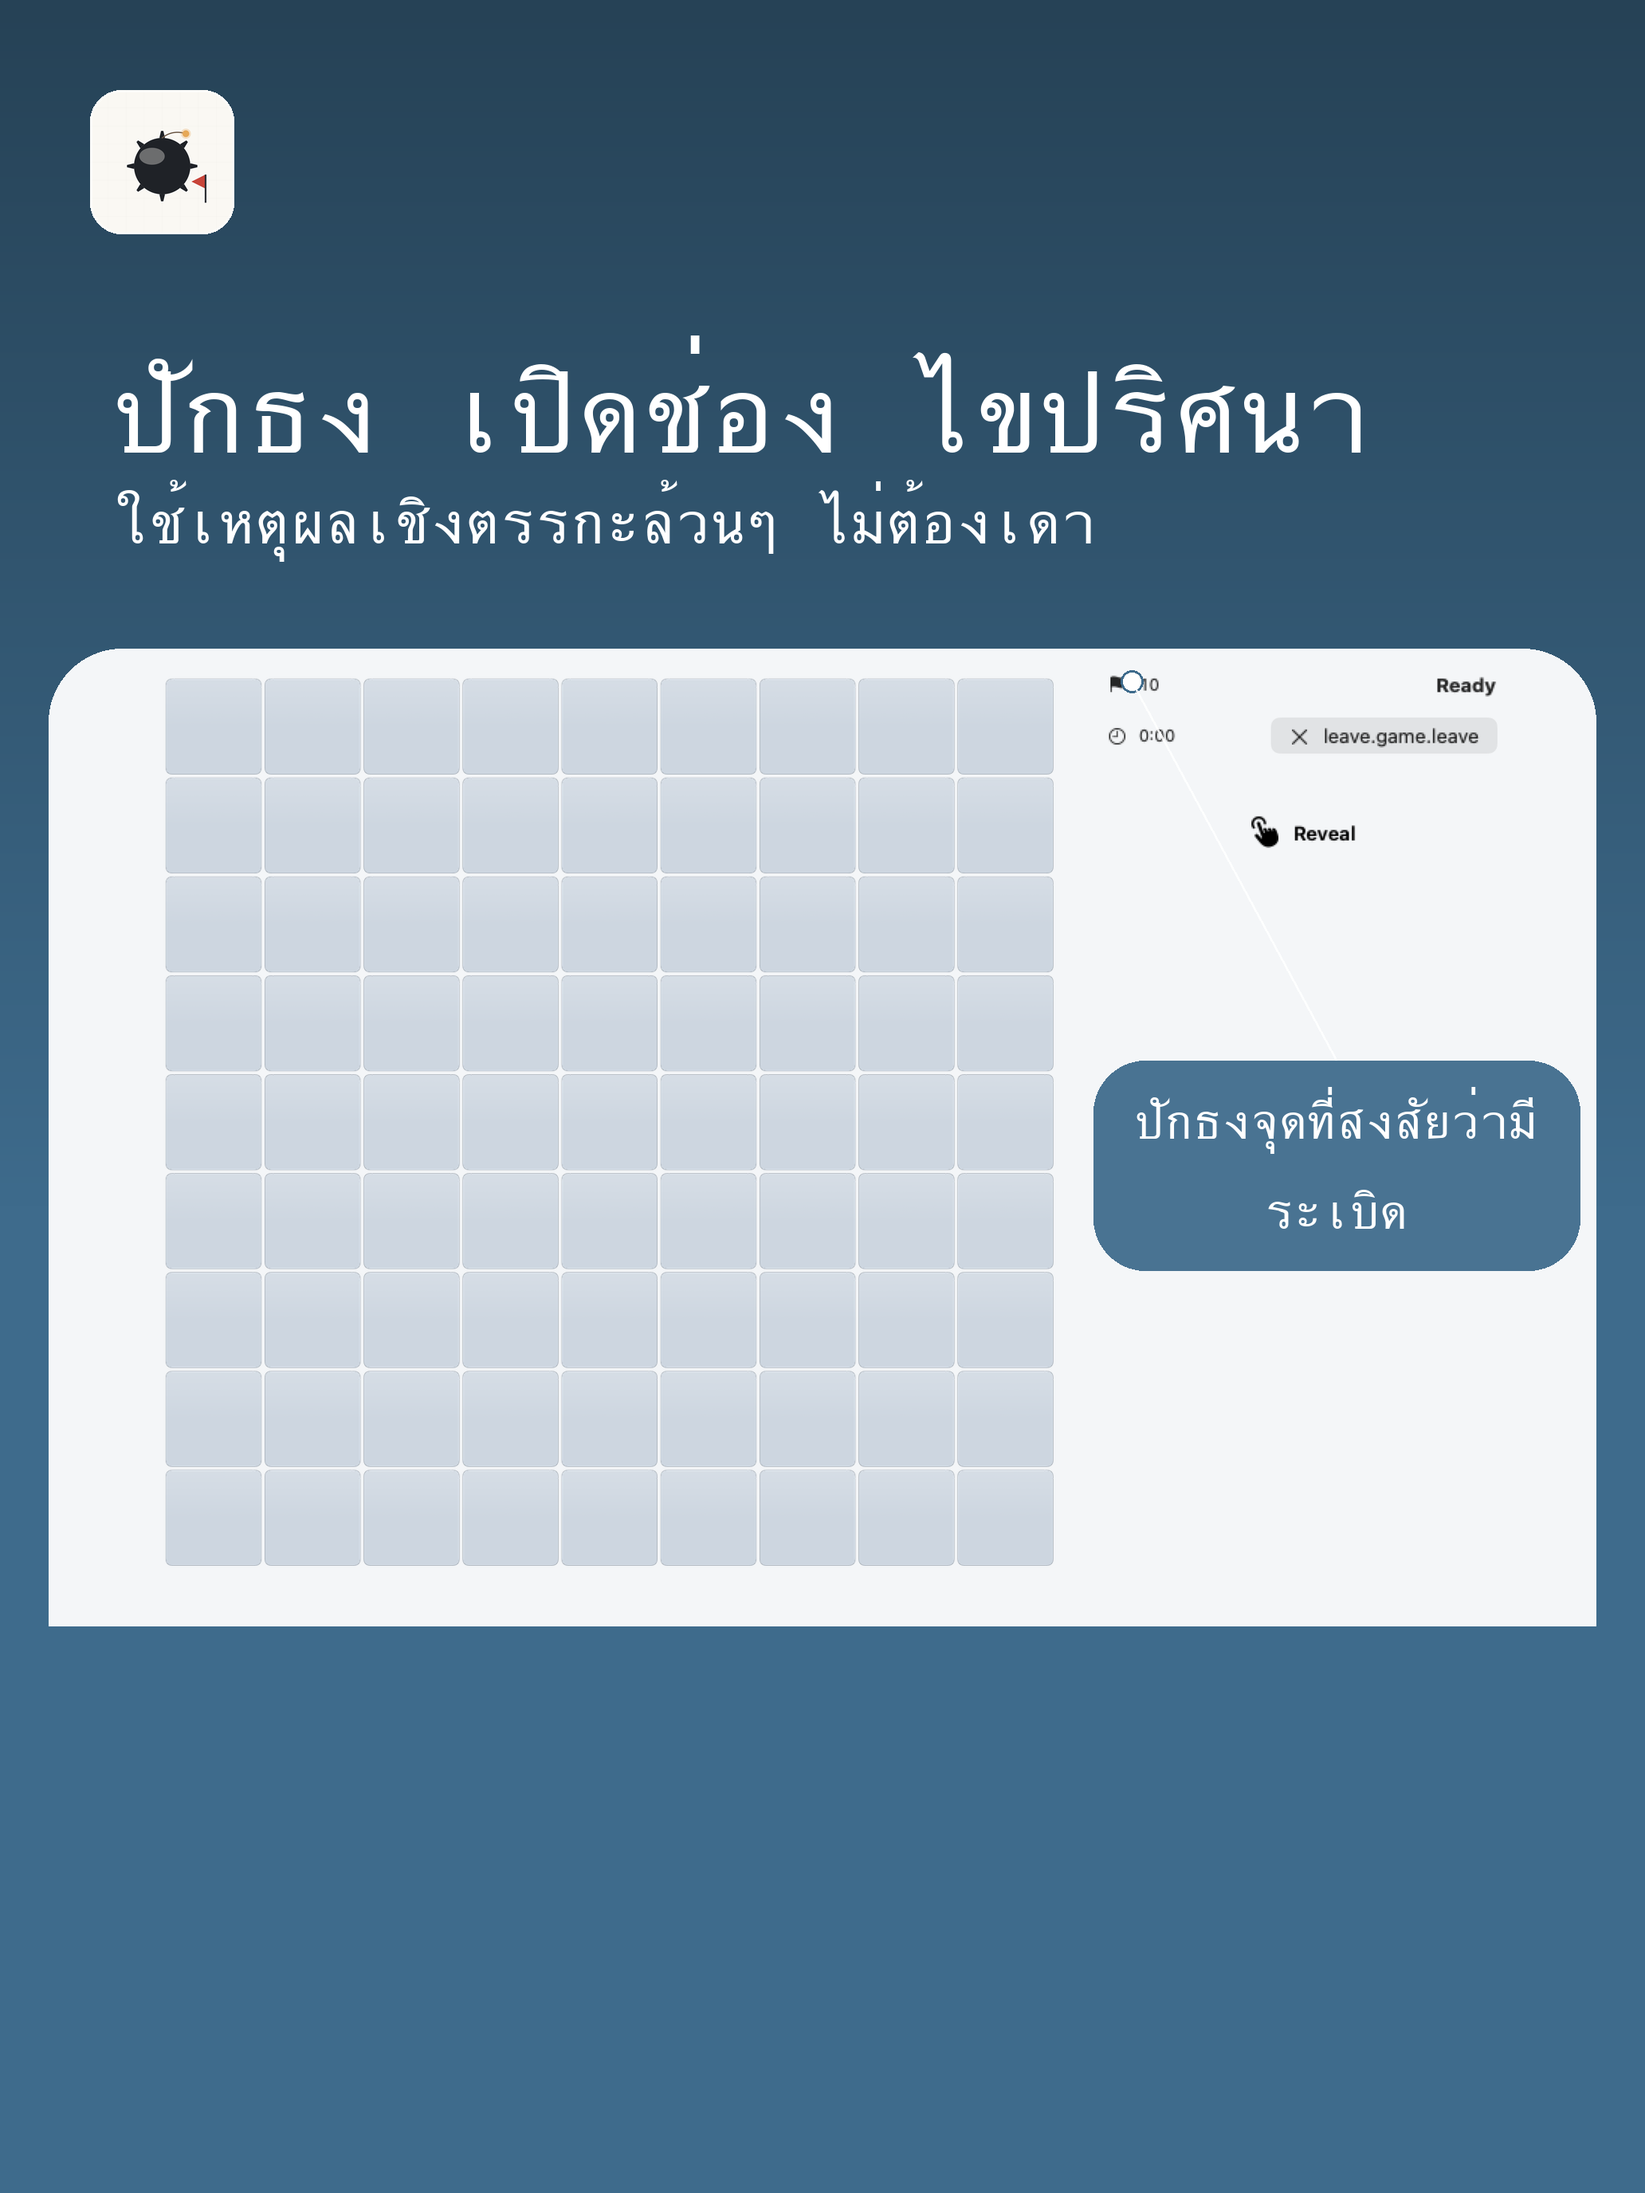
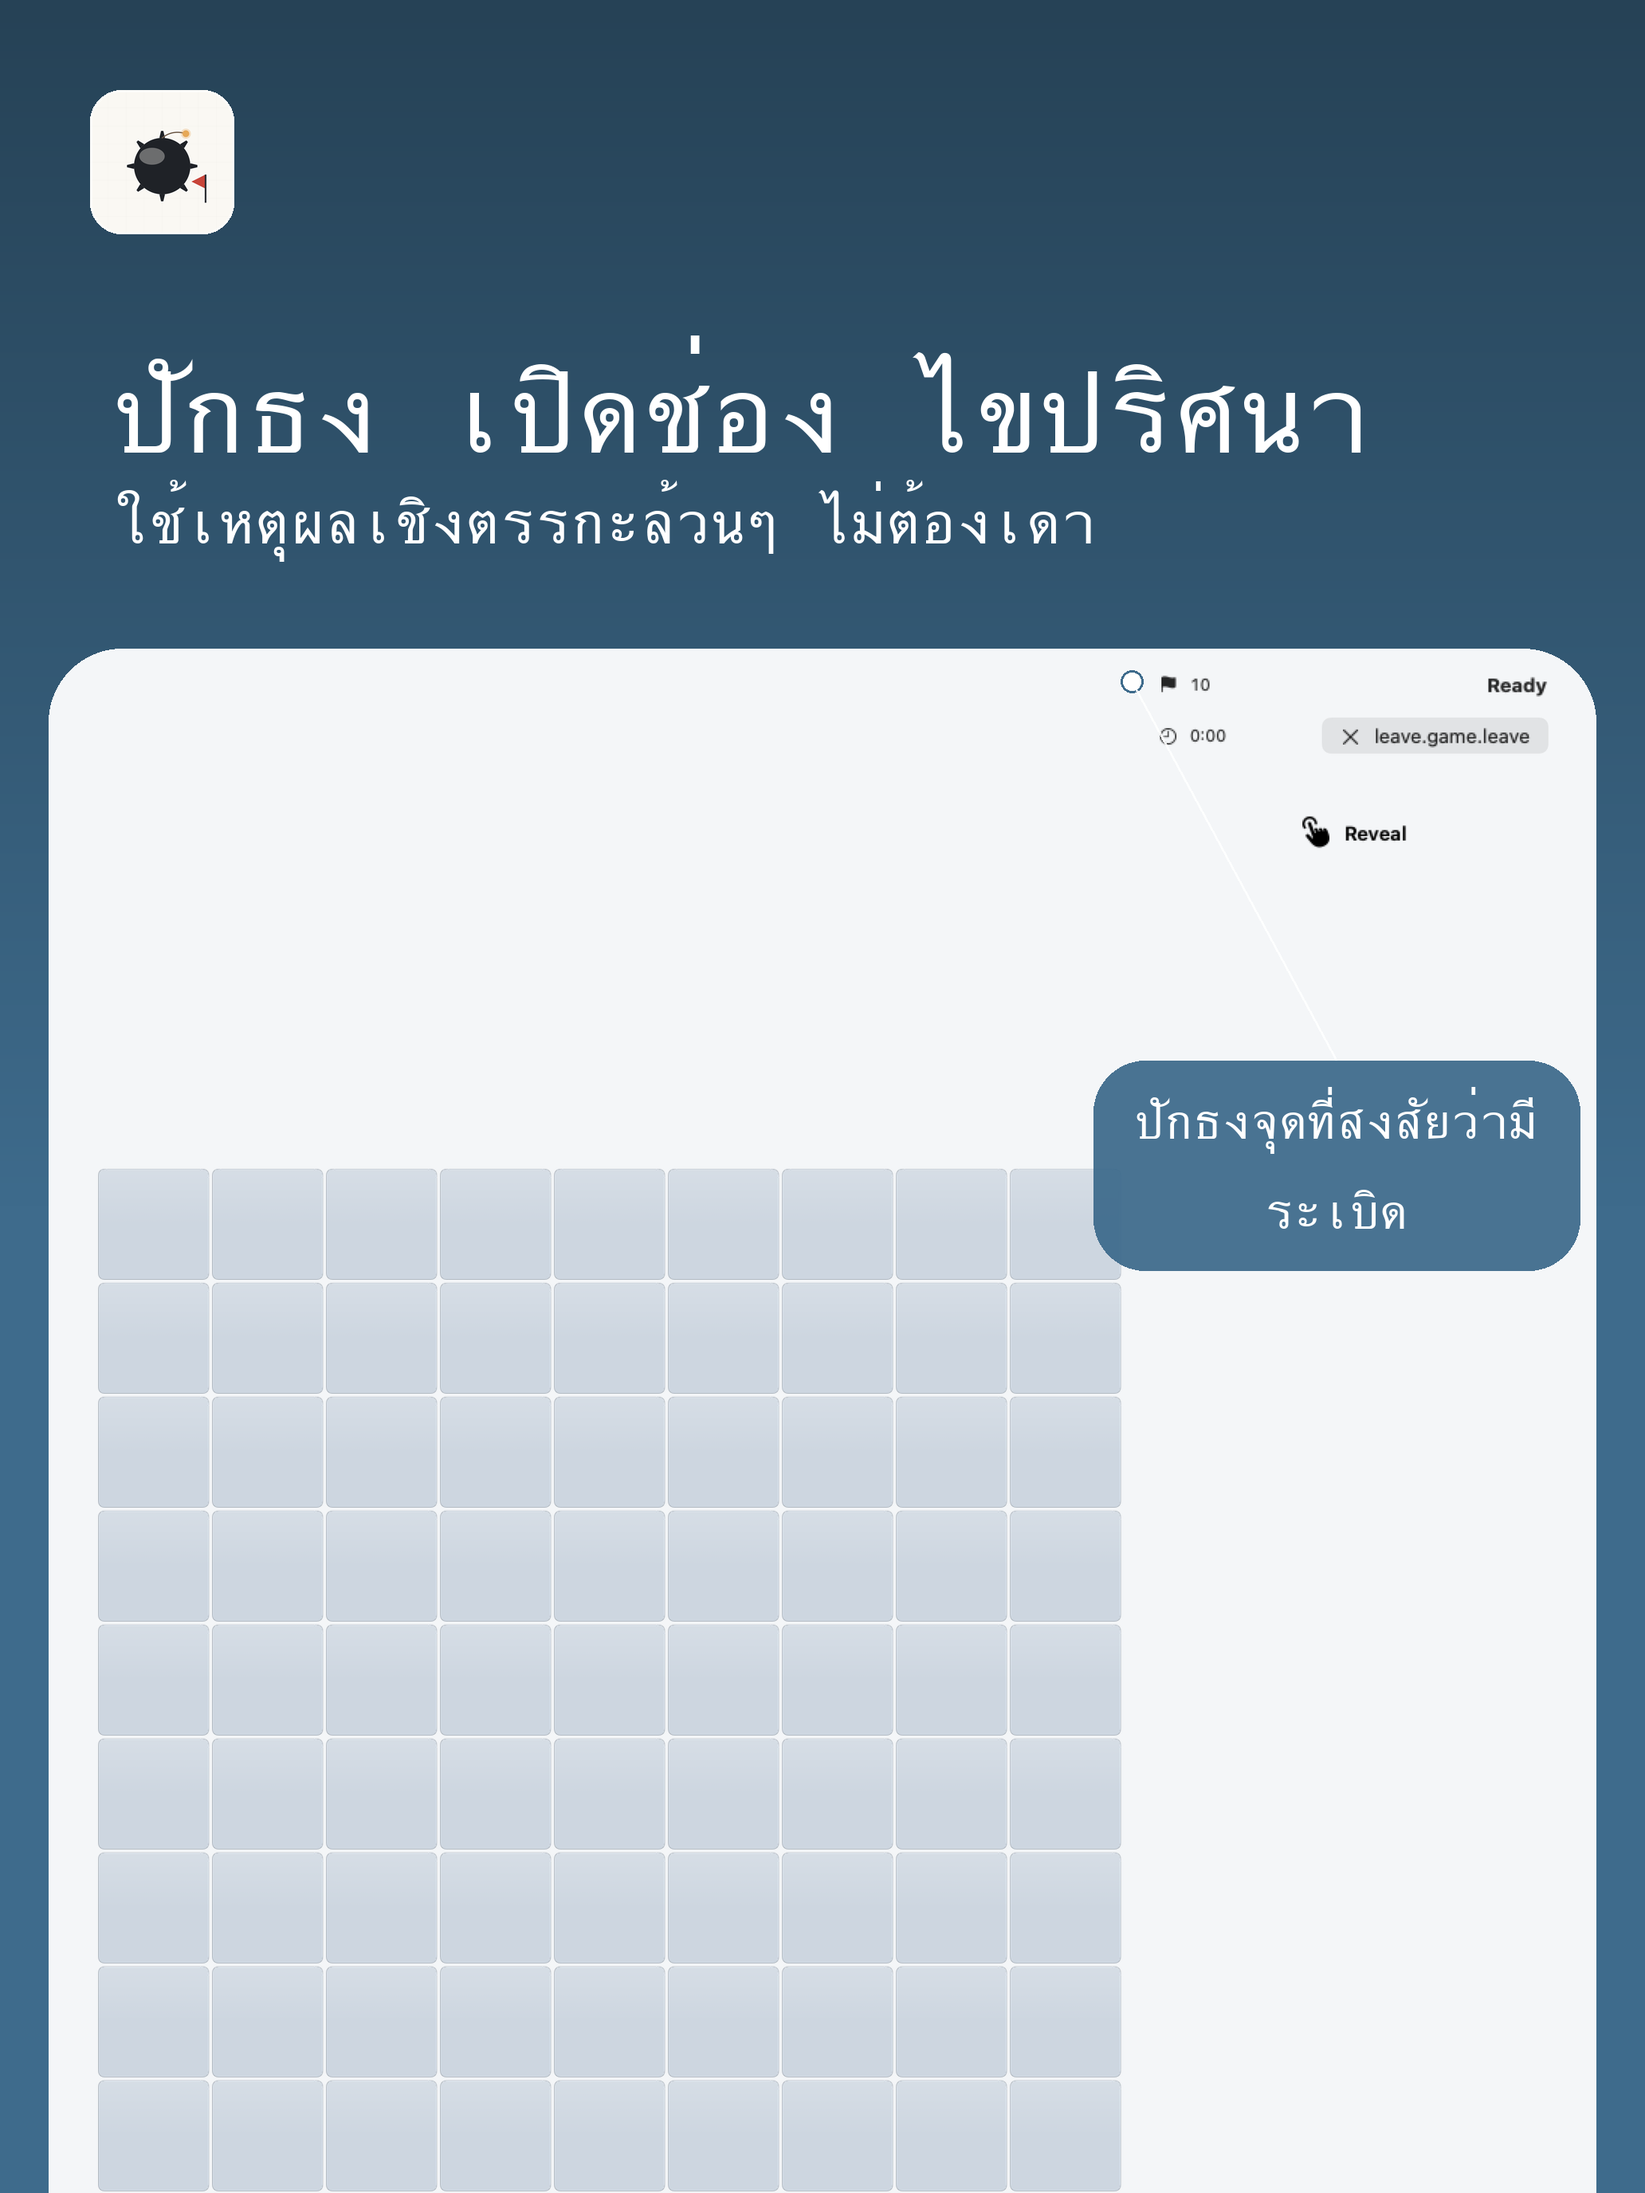
fix(board): let the iPad regular-width board viewport fill its column (#1101)
MinesweeperBoardView.macLayout was written for the Mac detail pane and is
selected by horizontalSizeClass == .regular, so iPad inherited the Mac caps:
macOuterMaxWidth 900 centred the layout and macBoardMaxSide 600 pinned the
board viewport to a 600 pt square in both orientations, leaving ~540 pt of
the board column empty in portrait (#1101 measurements).

New `regularBoardContainer` environment value (RegularBoardContainer.swift):
- .fillsColumn (iOS default): the board frame takes the column's full width
  AND height; the #764 cellSizing ladder picks the cell side from that rect.
- .cappedDetailPane (macOS default): the locked 900 / 600 Mac rule, unchanged.
Platform default pinned by RegularBoardContainerTests (mutating the #else
branch turns it red). An environment value rather than `#if os(iOS)` so the
macOS test host can render the iPad rule: the iPad snapshot and the
emit_iPad_board ASC frame inject .fillsColumn explicitly.

Baselines: the old iPad PNG is kept byte-for-byte under a new
`snapshotBeginnerCovered_regularCapped_light` test that injects
.cappedDetailPane at the same 1032x1376 size (passes without re-record, the
mechanical proof the Mac rule did not move); the iPad .fillsColumn baseline
is re-recorded. All iPhone and Mac baselines untouched (415 tests / 71 suites
green). The 7 Minesweeper ipad-13 03-board store frames are regenerated
(scan:store_frame_drift PASS); they stay #1054-affected.

Simulator (iPad Pro 11-inch M5, iOS 26.4; #1101 method): portrait
[…]

diff --git a/Packages/MinesweeperKit/Sources/MinesweeperUI/MinesweeperBoardView.swift b/Packages/MinesweeperKit/Sources/MinesweeperUI/MinesweeperBoardView.swift
@@ -48,6 +48,10 @@ public struct MinesweeperBoardView: View {
     // vertical stack. swiftui-interaction-footguns: read `horizontalSizeClass`,
     // which is `.regular` on Mac, not a hardcoded `#if os(macOS)`.
     @Environment(\.horizontalSizeClass) private var sizeClass
+    // #1101: which sizing rule `macLayout` applies to the board viewport on a
+    // regular-width host — iPad fills the column, Mac stays capped to the
+    // 900/600 detail-pane rule. Platform-defaulted; tests override it.
+    @Environment(\.regularBoardContainer) private var regularBoardContainer
     // #455 step 4: app-backgrounding is a save point (the other two are pause
     // and terminal reveal, both inside the VM). Mirrors Sudoku's
     // scenePhase-triggered flush (§How.5.5).
@@ -555,6 +559,11 @@ public struct MinesweeperBoardView: View {
     // toggle (MS has no digit pad), keeping the iPhone grid out of the wide Mac
     // detail pane (#298 critique: the board currently renders the iPhone stack
     // in the Mac detail).
+    //
+    // #1101: this VStack/HStack shape is shared by BOTH iPad and Mac (both are
+    // `.regular`); `regularBoardContainer` decides whether the outer column
+    // and the board viewport are capped (Mac detail pane) or fill the column
+    // (iPad — see `macOuterFrameMaxWidth` / `macBoardFrameMaxSide` below).
     private var macLayout: some View {
         // #762 PR3 re-tier: all three `theme.spacing.*` uses below are
         // structural — the outer `VStack` gap is the chrome seam to the
@@ -571,13 +580,13 @@ public struct MinesweeperBoardView: View {
             }
             bannerSlot(horizontalPadding: 0)
         }
-        .frame(maxWidth: Self.macOuterMaxWidth)
+        .frame(maxWidth: macOuterFrameMaxWidth)
         .frame(maxWidth: .infinity, alignment: .center)
         .padding(.horizontal, theme.spacing.medium)
         // #1022: the screen margin `body` used to apply to BOTH layouts.
         // Full-bleed is an iPhone-board rule (§3.4's cell table is three iPhone
-        // widths); the Mac board sits in a capped detail column, so it keeps
-        // the margin it had and is unchanged by #1022.
+        // widths); the Mac board sits in a capped detail column and iPad fills
+        // it (#1101), so both keep the margin it had and are unchanged by #1022.
         .padding(theme.spacing.medium)
     }
 
@@ -585,10 +594,25 @@ public struct MinesweeperBoardView: View {
     private static let macBoardMaxSide: CGFloat = 600
     private static let macRailWidth: CGFloat = 260
 
+    // #1101: capped (Mac) keeps the locked 900pt outer column; fillsColumn
+    // (iPad) removes the cap so the column takes the full width the parent
+    // offers. `.infinity`, not `nil` — `.frame(maxWidth: nil)` logs a SwiftUI
+    // runtime warning.
+    private var macOuterFrameMaxWidth: CGFloat {
+        regularBoardContainer == .cappedDetailPane ? Self.macOuterMaxWidth : .infinity
+    }
+
     private var macBoardColumn: some View {
         boardGrid
-            .frame(maxWidth: Self.macBoardMaxSide, maxHeight: Self.macBoardMaxSide)
+            .frame(maxWidth: macBoardFrameMaxSide, maxHeight: macBoardFrameMaxSide)
             .frame(maxWidth: .infinity, alignment: .center)
+    }
+
+    // #1101: capped (Mac) keeps the locked 600pt square; fillsColumn (iPad)
+    // removes both axis caps so the board viewport is the full column (width
+    // AND height), leaving cell size to the #764 `cellSizing` ladder.
+    private var macBoardFrameMaxSide: CGFloat {
+        regularBoardContainer == .cappedDetailPane ? Self.macBoardMaxSide : .infinity
     }
 
     // The Mac control rail: status read-out + the Reveal/Flag toggle, stacked

diff --git a/Packages/MinesweeperKit/Sources/MinesweeperUI/RegularBoardContainer.swift b/Packages/MinesweeperKit/Sources/MinesweeperUI/RegularBoardContainer.swift
@@ -1,0 +1,56 @@
+// RegularBoardContainer — #1101.
+//
+// `MinesweeperBoardView.macLayout` (#298 #6) was written for exactly one
+// regular-width host: the Mac detail pane, capped to a 900pt outer column /
+// 600pt board square (locked 2026-05-30). iPad also reports `.regular`
+// horizontal size class and was inheriting those same Mac caps, so the board
+// viewport was stuck in a 600pt square with ~540pt of blank space below it in
+// portrait. PM ruling on #1101: iPad's board viewport should fill the whole
+// board column (both width AND height), leaving cell sizing to the existing
+// #764 `cellSizing` ladder — Mac's capped detail-pane behavior is unchanged.
+//
+// This is an `EnvironmentValue` rather than a `#if os(iOS)` constant because
+// `swift test` only runs on macOS: the only way to exercise "the iPad rule"
+// in a snapshot test or an ASC store-frame render on that host is to inject
+// it explicitly. Production code still gets the right default for free via
+// `platformDefault`.
+public import SwiftUI
+
+/// Which sizing rule a regular-width (iPad / Mac) host applies to the board
+/// viewport in `MinesweeperBoardView.macLayout`.
+public enum RegularBoardContainer: Sendable, Equatable {
+    /// iPad: the board viewport receives the full board column's width AND
+    /// height; `MinesweeperBoardView.cellSizing` (#764) picks the cell size
+    /// from whatever rect it is offered. See #1101.
+    case fillsColumn
+
+    /// Mac detail pane: outer column capped to `macOuterMaxWidth` (900pt) and
+    /// centered, board viewport capped to a `macBoardMaxSide` (600pt) square.
+    /// Locked 2026-05-30 (#298 #6).
+    case cappedDetailPane
+
+    /// The default rule for the current platform. iOS's only regular-width
+    /// host is iPad (`horizontalSizeClass` alone can't distinguish it from
+    /// Mac, which is also `.regular`), so iOS defaults to `.fillsColumn`;
+    /// every other platform (macOS) keeps the capped Mac detail-pane rule.
+    public static var platformDefault: RegularBoardContainer {
+        #if os(iOS)
+        .fillsColumn
+        #else
+        .cappedDetailPane
+        #endif
+    }
+}
+
+// MARK: - Environment key
+
+private struct RegularBoardContainerKey: EnvironmentKey {
+    static let defaultValue = RegularBoardContainer.platformDefault
+}
+
+public extension EnvironmentValues {
+    var regularBoardContainer: RegularBoardContainer {
+        get { self[RegularBoardContainerKey.self] }
+        set { self[RegularBoardContainerKey.self] = newValue }
+    }
+}

diff --git a/Packages/MinesweeperKit/Tests/MinesweeperUITests/MinesweeperBoardSnapshotTests.swift b/Packages/MinesweeperKit/Tests/MinesweeperUITests/MinesweeperBoardSnapshotTests.swift
@@ -54,14 +54,40 @@ struct MinesweeperBoardSnapshotTests {
         )
     }
 
+    // #1101: the macOS test host has no notion of "iPad" beyond the injected
+    // size class, so it must be told explicitly which board-viewport rule to
+    // apply — un-injected, `regularBoardContainer` would default to
+    // `.cappedDetailPane` (this process's platform is macOS), silently
+    // testing the wrong rule for an iPad baseline.
     @Test(.enabled(if: !SnapshotEnv.isXcodeCloud))
     func snapshotBeginnerCovered_iPad_light() {
         let view = MinesweeperBoardView(difficulty: .beginner, seed: 42, tapModeDefaults: BoardTestDefaults.store)
             .environment(\.bannerSession, .disabled)
+            .environment(\.regularBoardContainer, .fillsColumn)
         assertUISnapshot(
             of: hostingView(view, size: SnapshotLayouts.iPad, colorScheme: .light, sizeClass: .regular),
             as: .tolerantImage,
             named: "Board-iPad-light-beginner-covered",
+            record: SnapshotMode.recordMode
+        )
+    }
+
+    // #1101: same view/host as above but forcing `.cappedDetailPane` — this
+    // is the Mac detail-pane rule (#298 #6, locked 2026-05-30), which the PNG
+    // this test renamed from (`snapshotBeginnerCovered_iPad_light`'s old
+    // baseline) already recorded pixel-for-pixel. It is expected to pass
+    // WITHOUT re-recording: that is the mechanical proof that the capped rule
+    // still renders byte-identically at this size once `regularBoardContainer`
+    // exists and iPad's default flips to `.fillsColumn`.
+    @Test(.enabled(if: !SnapshotEnv.isXcodeCloud))
+    func snapshotBeginnerCovered_regularCapped_light() {
+        let view = MinesweeperBoardView(difficulty: .beginner, seed: 42, tapModeDefaults: BoardTestDefaults.store)
+            .environment(\.bannerSession, .disabled)
+            .environment(\.regularBoardContainer, .cappedDetailPane)
+        assertUISnapshot(
+            of: hostingView(view, size: SnapshotLayouts.iPad, colorScheme: .light, sizeClass: .regular),
+            as: .tolerantImage,
+            named: "Board-Regular-light-beginner-covered-cappedDetailPane",
             record: SnapshotMode.recordMode
         )
     }

diff --git a/Packages/MinesweeperKit/Tests/MinesweeperUITests/RegularBoardContainerTests.swift b/Packages/MinesweeperKit/Tests/MinesweeperUITests/RegularBoardContainerTests.swift
@@ -1,0 +1,25 @@
+// RegularBoardContainerTests — #1101: pins the platform default and the
+// un-injected `EnvironmentValues` default so a future edit to either can't
+// silently drift them apart.
+
+import SwiftUI
+import Testing
+@testable import MinesweeperUI
+
+@Suite("RegularBoardContainer — platform default (#1101)")
+struct RegularBoardContainerTests {
+
+    @Test("platformDefault matches the current platform's board-viewport rule")
+    func platformDefaultMatchesPlatform() {
+        #if os(iOS)
+        #expect(RegularBoardContainer.platformDefault == .fillsColumn)
+        #else
+        #expect(RegularBoardContainer.platformDefault == .cappedDetailPane)
+        #endif
+    }
+
+    @Test("un-injected EnvironmentValues defaults to platformDefault")
+    func environmentDefaultsToPlatformDefault() {
+        #expect(EnvironmentValues().regularBoardContainer == RegularBoardContainer.platformDefault)
+    }
+}

diff --git a/Packages/MinesweeperKit/Tests/MinesweeperUITests/ASCScreenshotEmitTests.swift b/Packages/MinesweeperKit/Tests/MinesweeperUITests/ASCScreenshotEmitTests.swift
@@ -200,8 +200,12 @@ struct ASCScreenshotEmitTests {
 
     @Test(.enabled(if: ASCScreenshotEmit.isEnabled))
     func emit_iPad_board() throws {
+        // #1101: force the iPad board-viewport rule so the ASC store frame
+        // reflects the fills-the-column layout, not the inherited Mac cap.
         try emitASCScreenshot(
-            boardView().environment(\.bannerSession, .disabled),
+            boardView()
+                .environment(\.bannerSession, .disabled)
+                .environment(\.regularBoardContainer, .fillsColumn),
             profile: .iPad13, app: Self.app, device: "ipad-13", locale: "en",
             slot: "03-board", background: Self.background,
             host: hostingView
